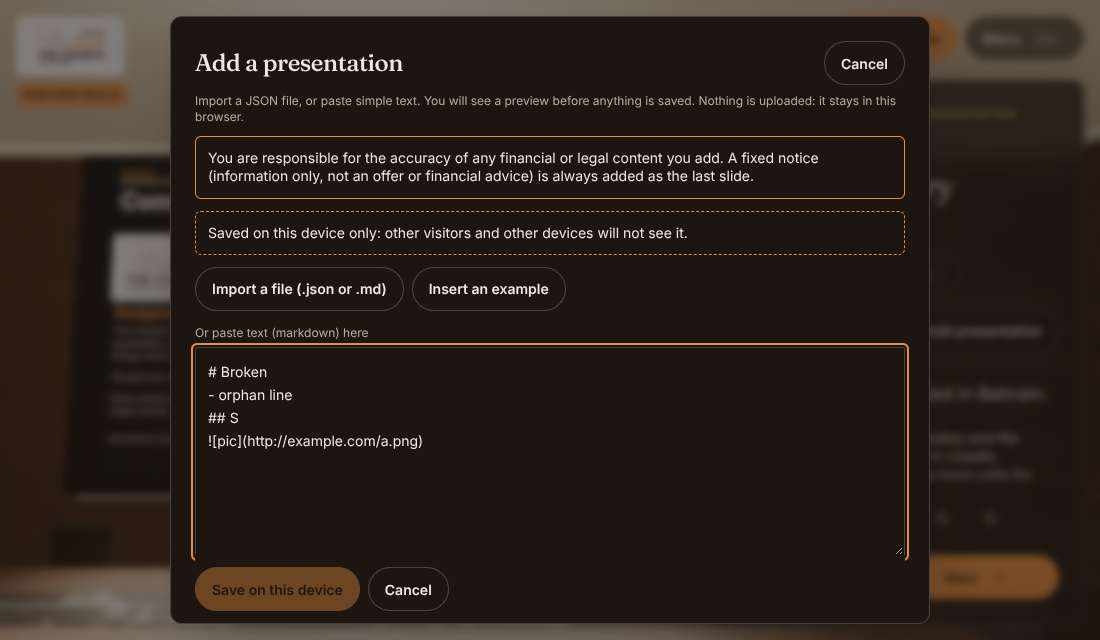
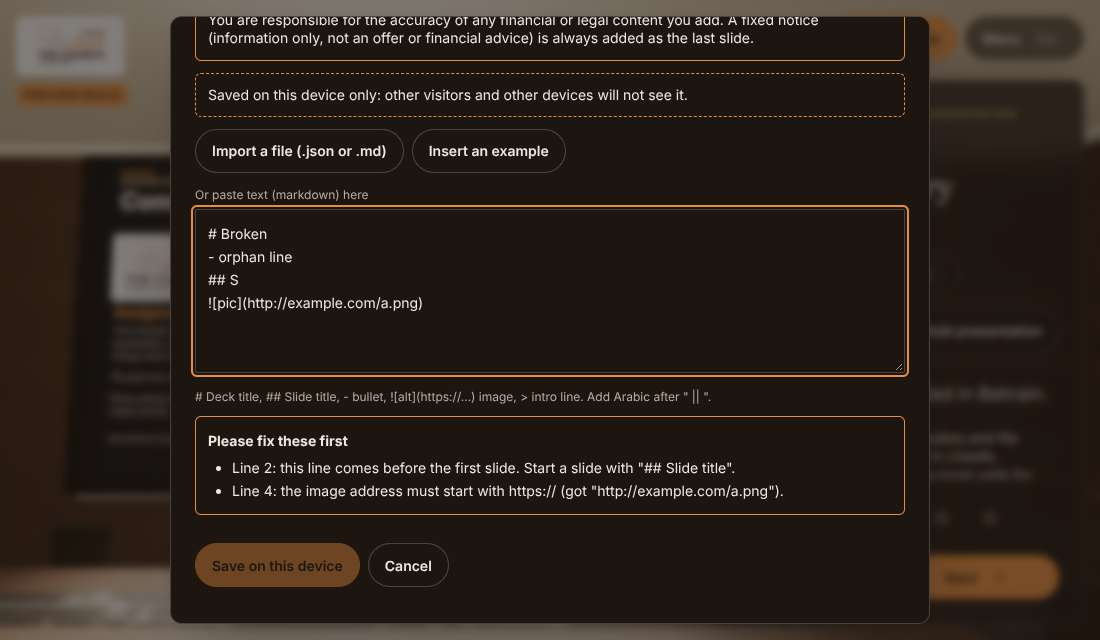
VIP decks: scroll validation errors into view; refreshed screenshots
Claude-Session: https://claude.ai/code/session_017ZaR8CiDH3TQygKUjUtw2u

Changed region(s): [[0.1545, 0.0, 0.8345, 0.875], [0.1545, 0.7812, 0.4018, 0.9688]]

diff --git a/src/showroom3d/ui/VipDeckDialog.jsx b/src/showroom3d/ui/VipDeckDialog.jsx
@@ -25,7 +25,7 @@ export function VipDeckDialog({ lang, ex, max, onClose }) {
   const rd = useMemo(() => (res.ok ? resolveDeck(res.deck, lang) : null), [res, lang]);
   const slide = rd ? rd.slides[Math.min(pi, rd.slides.length - 1)] : null;
   useEffect(() => { setPi(0); setSaveErr(''); }, [text]);
-  useEffect(() => { const n = statusRef.current; if (n && !res.empty && res.errors.length && n.scrollIntoView) n.scrollIntoView({ block: 'nearest' }); }, [res]);   // the errors are never left below the fold
+  useEffect(() => { const n = statusRef.current; if (n && !res.empty && res.errors.length && n.scrollIntoView) n.scrollIntoView({ block: 'center' }); }, [res]);   // the errors are never left below the fold
   const onFile = (e) => {
     const f = e.target.files && e.target.files[0]; setFileErr(''); if (!f) return;
     if (f.size > LIMITS.maxInput * 2) { setFileErr(t('vdErrFileBig', lang)); return; }
